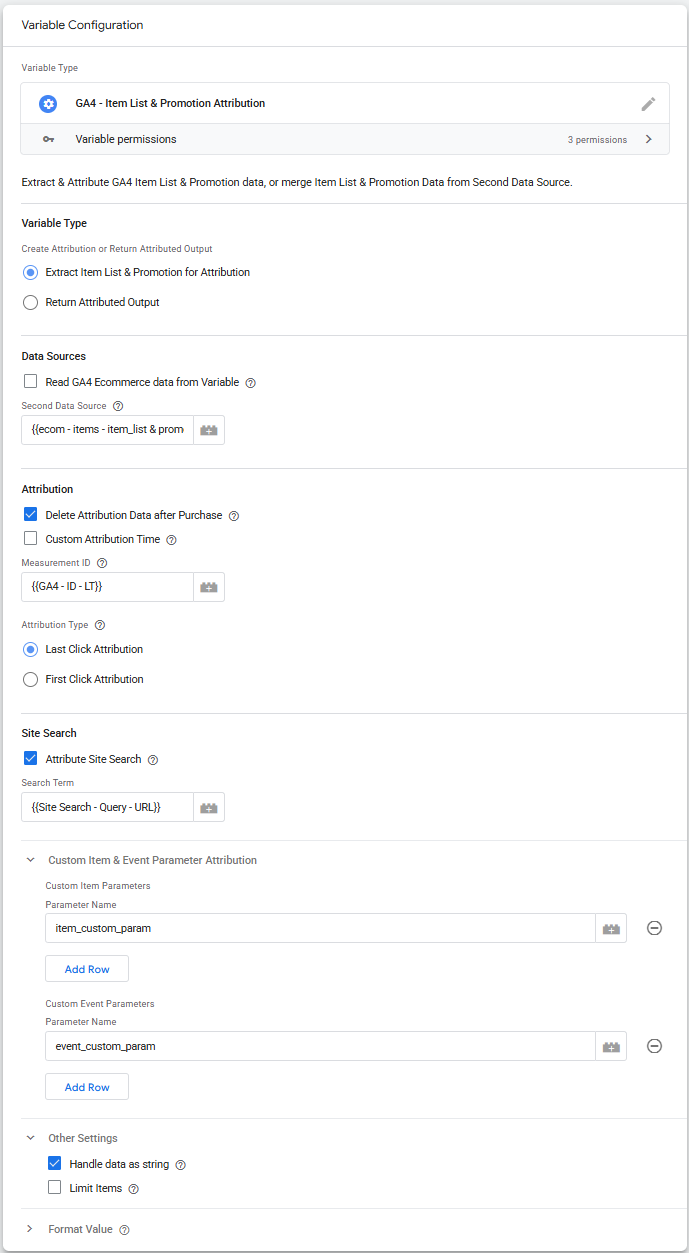
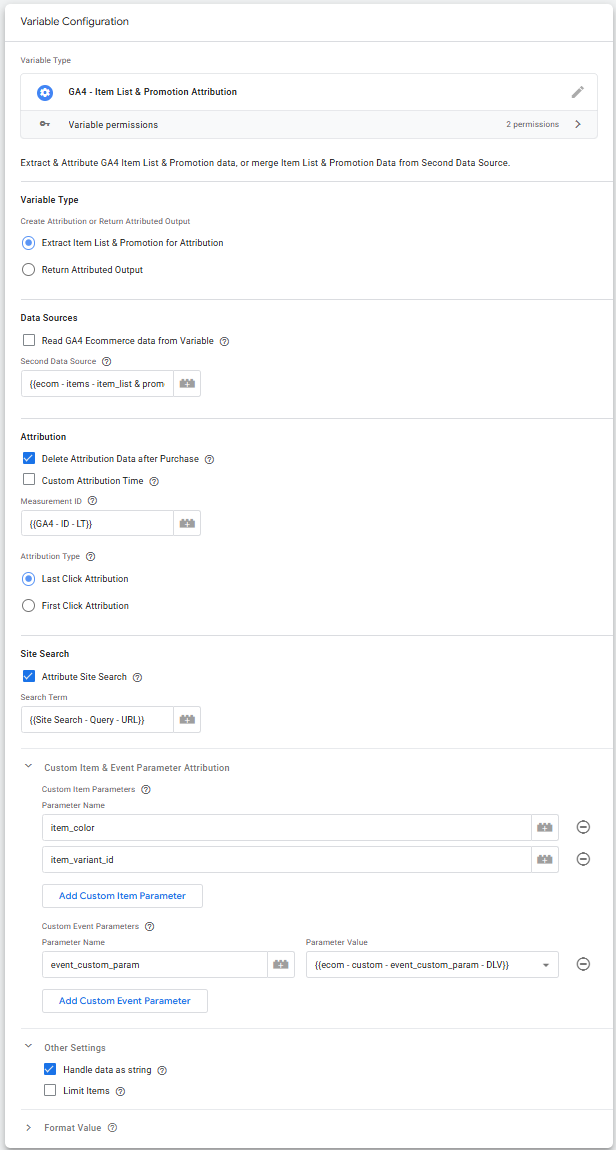
Custom Event Parameter attribution changes
Updated Data Layer read permissions to specific keys and rebuilt Custom Event Parameter attribution logic.

diff --git a/template.js b/template.js
@@ -7,7 +7,6 @@ const JSON = require('JSON');
 const Object = require('Object');
 const readAnalyticsStorage = require('readAnalyticsStorage');
 const analyticsStorageData = readAnalyticsStorage();
-const log = require('logToConsole');
 
 const jsonData = data.jsonData;
 const secondDataSource = data.secondDataSource && typeof data.secondDataSource === 'string' ? JSON.parse(data.secondDataSource) : data.secondDataSource || undefined;
@@ -17,7 +16,6 @@ const items = ecom ? ecom.items : undefined;
 let items2 = secondDataSource ? secondDataSource.items : [{item_id:"helper_id"}];
 let promo2 = secondDataSource ? secondDataSource.promotion : undefined;
 let searchTerm2 = secondDataSource ? secondDataSource.search_term : undefined;
-
 let customEvents2 = secondDataSource && secondDataSource.custom_events ? secondDataSource.custom_events : {};
 
 const measurementId = data.measurementId;
@@ -72,7 +70,7 @@ if(data.variableType === 'attribution') {
   if (customEventAttributeParameters.length > 0) {
     customEventAttributeParameters.forEach(row => {
       const pName = row.parameterName;
-      const pVal = (ecom && hasValue(ecom[pName])) ? ecom[pName] : dataLayer(pName, 2);
+      const pVal = row.parameterValue; // FIX: Reading from UI mapping variable
       if (hasValue(pVal)) {
         currentCustomEvents[pName] = pVal;
       }
@@ -80,7 +78,6 @@ if(data.variableType === 'attribution') {
   }
 
   let mergedCustomEvents = {};
-
   const oldCeKeys = Object.keys(customEvents2 || {});
   oldCeKeys.forEach(k => { mergedCustomEvents[k] = customEvents2[k]; });
   
@@ -242,6 +239,18 @@ if(data.variableType === 'attribution') {
       extract = jsonData && extract ? JSON.stringify(extract) : extract;
         return extract;
   }
+
+  const hasNewCustomEvents = Object.keys(currentCustomEvents || {}).length > 0;
+  if (hasNewCustomEvents) {
+    let extract = {
+      items: items2, 
+      promotion: promo2, 
+      search_term: searchTerm2, 
+      custom_events: mergedCustomEvents, 
+      timestamp: timestamp
+    };
+    return jsonData ? JSON.stringify(extract) : extract;
+  }
 }
 else if (data.variableType === 'output') {
   let output;
@@ -282,6 +291,8 @@ else if (data.variableType === 'output') {
         }
       }
 
+      const standardKeys = ['item_id', 'item_list_id', 'item_list_name', 'creative_name', 'creative_slot', 'promotion_id', 'promotion_name', 'location_id', 'index'];
+      
       items2.forEach(item2 => {
         if (item.item_id === item2.item_id) {
           item.item_list_id = item.item_list_id || item2.item_list_id || undefined;
@@ -294,7 +305,6 @@ else if (data.variableType === 'output') {
           item.index = item.index || item2.index || undefined;
           
           const storedKeys = Object.keys(item2 || {});
-          const standardKeys = ['item_id', 'item_list_id', 'item_list_name', 'creative_name', 'creative_slot', 'promotion_id', 'promotion_name', 'location_id', 'index'];
           
           storedKeys.forEach(k => {
             if (standardKeys.indexOf(k) === -1) {
